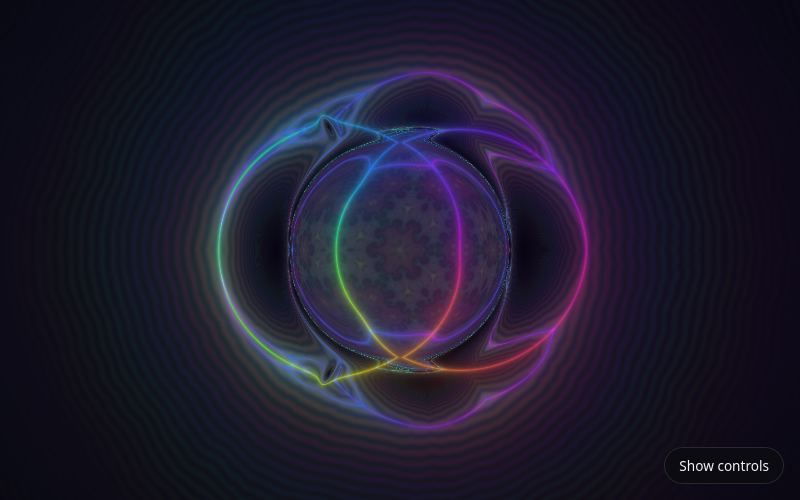
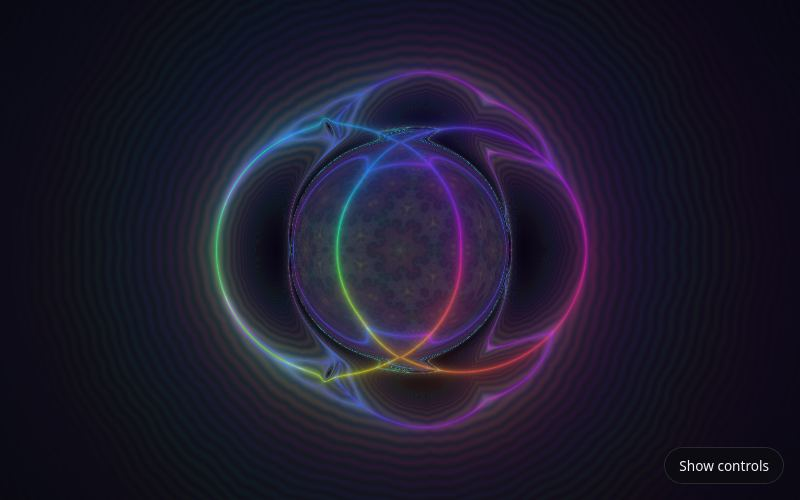
Add Kali Drift (quasi-periodic Kaliset); fix Prism Mirror going black
Prism Mirror read past the end of FOLDS on the deltoid→Hopf slide, so the
last ~6 s of every loop rendered NaN (black). Kali Drift drifts c, α, turn
and zoom on clocks in irrational ratio so it never repeats. Dev builds also
expose window.__manager for headless checks.

diff --git a/src/sketches/kaliDrift.js b/src/sketches/kaliDrift.js
@@ -1,0 +1,155 @@
+import { TAU } from '../lib/motion.js';
+
+// Kali's set, drifting and never repeating.
+//
+// Kali's fractal (the "Kaliset") repeats one step:
+//
+//     p ↦ |p| / |p|^α − c
+//
+// The |p| is the axis mirror (as in Radian628), and p/|p|² is an inversion in
+// the unit circle: everything inside the circle is thrown outside and back. With
+// α = 2 it is the classic set; α between 1.5 and 2.8 changes how hard the
+// inversion pulls, from soft lace to sharp crystal.
+//
+// No loop: c, α, the turn θ and the zoom all move on sines whose frequencies are
+// in irrational ratio (1, φ, √2, √3, ...), so the parameter point never comes
+// back to where it was. It wanders a box of (c, α) that was checked to stay
+// busy (no escaping to black, no collapsing to a single fixed point), and the
+// palette's hue drifts on its own irrational clock too.
+//
+// Colour comes from the whole orbit, not only near-misses: every pixel gets a
+// hue from the average of log|p| along its orbit (so there is no empty black),
+// and orbit traps (closest pass to the axes and to the unit circle) add the
+// bright filaments on top.
+
+const PHI = (1 + Math.sqrt(5)) / 2;
+const R2 = Math.SQRT2;
+const R3 = Math.sqrt(3);
+const W = TAU / 47; // base angular frequency: the slowest drift takes ~47 s
+
+export default {
+  name: 'Kali Drift',
+  description:
+    "Kali's fractal p ↦ |p|/|p|^α − c: a mirror and an inversion in the unit circle, repeated. c, α, the turn and " +
+    'the zoom drift on clocks in irrational ratio, so the picture never repeats.',
+  tags: ['fractal', '2d', 'glsl', 'kaliset', 'inversion', 'quasi-periodic', 'orbit trap'],
+  category: 'Fractals',
+  mode: 'shader',
+  shaderLang: 'glsl',
+
+  motion(t) {
+    const s = (k, ph = 0) => Math.sin(W * k * t + ph);
+    return {
+      cx: 0.8 + 0.28 * s(1) + 0.1 * s(R3, 2.1),
+      cy: 0.62 + 0.18 * s(PHI, 1.3) + 0.08 * s(R2 * PHI, 0.4),
+      alpha: 2.15 + 0.5 * s(R2, 0.7) + 0.15 * s(PHI * R3, 2.9),
+      theta: 0.6 * s(1 / PHI, 2.6) + 0.25 * s(R3 / PHI, 1.1),
+      zoom: Math.exp(0.35 + 0.6 * s(1 / R3, 4.0) + 0.15 * s(R2 * R3, 0.9)),
+      hue: (t * W * 0.6 / TAU) % 1,
+    };
+  },
+
+  latex: (params, hl, m) =>
+    '\\begin{aligned}' +
+    `p &\\mapsto \\frac{|p|}{|p|^{\\alpha}} - c,\\quad \\alpha = ${hl(m.alpha, 2)},\\quad c = (${hl(m.cx, 2)},\\ ${hl(m.cy, 2)}) \\\\` +
+    `c(t) &= c_0 + \\textstyle\\sum_k a_k \\sin(\\omega_k t + \\phi_k),\\quad \\omega_k \\propto 1,\\ \\varphi,\\ \\sqrt2,\\ \\sqrt3 \\\\` +
+    `p_0 &= ${hl(m.zoom, 2)}\\,R_{${hl(m.theta, 2)}}\\,z \\\\` +
+    '\\text{hue} &= \\tfrac1n\\textstyle\\sum \\log|p_i|,\\quad \\text{glow} = \\min_i \\min(|x_i|, |y_i|, \\big||p_i|-1\\big|)' +
+    '\\end{aligned}',
+
+  params: {
+    speed: { value: 1, min: 0, max: 3, step: 0.05 },
+    iterations: { value: 12, min: 4, max: 32, step: 1 },
+    glow: { value: 1, min: 0, max: 2.5, step: 0.05 },
+    saturation: { value: 1, min: 0, max: 1.5, step: 0.05 },
+  },
+
+  fragmentShader: `
+    uniform float uTime;
+    uniform vec2 uResolution;
+    uniform vec2 uC;
+    uniform float uAlpha;
+    uniform float uTheta;
+    uniform float uZoom;
+    uniform float uHue;
+    uniform float uIterations;
+    uniform float uGlow;
+    uniform float uSat;
+    varying vec2 vUv;
+
+    vec3 rainbow(float t) {
+      return 0.5 + 0.5 * cos(6.2831 * (t + vec3(0.0, 0.333, 0.667)));
+    }
+
+    // One sample: the orbit of z, coloured by the depth of its closest pass.
+    vec3 shade(vec2 z) {
+      float c = cos(uTheta), s = sin(uTheta);
+      vec2 p = uZoom * (mat2(c, -s, s, c) * z);
+      float best = 1e9, bestI = 0.0, r1 = 0.0;
+      for (int i = 0; i < 32; i++) {
+        if (float(i) >= uIterations) break;
+        float r2 = max(dot(p, p), 1e-6);
+        p = abs(p) / pow(r2, 0.5 * uAlpha) - uC;
+        float r = length(p);
+        if (i == 0) r1 = r;
+        // Closest pass to the mirror axes or the inversion circle. Deep passes
+        // count for less, so the picture is drawn by the first few levels and
+        // the chaos underneath stays a fine texture instead of grain.
+        float d = min(min(abs(p.x), abs(p.y)), abs(r - 1.0)) * (1.0 + 0.8 * float(i));
+        if (d < best) { best = d; bestI = float(i); }
+      }
+      float g = 0.035 / (best + 0.035);
+      // Each level gets its own hue; the backdrop is a smooth wash from the first step.
+      vec3 lines = rainbow(uHue + 0.14 * bestI + 0.05 * r1) * g * g * 1.6;
+      vec3 back = rainbow(uHue + 0.5 + 0.12 * log(r1 + 0.05)) * 0.14;
+      return back + uGlow * lines;
+    }
+
+    void main() {
+      vec2 frag = vUv * uResolution;
+      float px = 1.0 / (0.5 * min(uResolution.x, uResolution.y));
+      vec3 col = vec3(0.0);
+      for (int j = 0; j < 4; j++) {            // 2×2 supersampling
+        vec2 o = (vec2(float(j / 2), float(j - 2 * (j / 2))) - 0.25) * 0.5 ;
+        col += shade((frag + o - 0.5 * uResolution) * px);
+      }
+      col *= 0.25;
+
+      // Saturation, then compress by the brightest channel so hues survive.
+      float lum = dot(col, vec3(0.299, 0.587, 0.114));
+      col = max(mix(vec3(lum), col, uSat), 0.0);
+      float m = max(max(col.r, col.g), col.b);
+      col *= (1.0 - exp(-1.4 * m)) / max(m, 1e-4);
+
+      vec2 v = vUv - 0.5;
+      col *= 1.0 - 0.45 * dot(v, v);
+      gl_FragColor = vec4(pow(col, vec3(0.9)), 1.0);
+    }
+  `,
+
+  uniforms() {
+    return {
+      uC: { value: [0.78, 0.52] },
+      uAlpha: { value: 2 },
+      uTheta: { value: 0 },
+      uZoom: { value: 2 },
+      uHue: { value: 0 },
+      uIterations: { value: 12 },
+      uGlow: { value: 1 },
+      uSat: { value: 1 },
+    };
+  },
+
+  update(ctx, state) {
+    const m = ctx.motion;
+    const u = state.uniforms;
+    u.uC.value = [m.cx, m.cy];
+    u.uAlpha.value = m.alpha;
+    u.uTheta.value = m.theta;
+    u.uZoom.value = m.zoom;
+    u.uHue.value = m.hue;
+    u.uIterations.value = ctx.params.iterations;
+    u.uGlow.value = ctx.params.glow;
+    u.uSat.value = ctx.params.saturation;
+  },
+};

diff --git a/src/sketches/radian628PrismMirror.js b/src/sketches/radian628PrismMirror.js
@@ -32,7 +32,7 @@ const SHAPES = [
   { name: 'cardioid', tex: '(x^2+y^2-ax)^2 - a^2(x^2+y^2)' },
   { name: 'deltoid', tex: '(x^2+y^2)^2 + 18a^2(x^2+y^2) - 27a^4 - 8a(x^3-3xy^2)' },
 ];
-const FOLDS = [3, 4, 5, 6, 3]; // mirrors in the kaleidoscope while each shape holds
+const FOLDS = [3, 4, 5, 6, 3]; // mirrors in the kaleidoscope while each shape holds (wraps to the first)
 
 export default {
   name: 'Radian628 — Prism Mirror',
@@ -53,7 +53,7 @@ export default {
     const s = smooth((local - 0.6) / 0.35); // hold 60 %, slide, settle
     // The kaleidoscope changes its mirror count along with the shape. A
     // fractional N would leave a seam, so the two whole folds are blended.
-    const na = FOLDS[a], nb = FOLDS[a + 1];
+    const na = FOLDS[a], nb = FOLDS[(a + 1) % FOLDS.length];
     const tl = p * PERIOD;
     const mu = Math.min(smooth(tl / 4), smooth((PERIOD - tl) / 2));
     return { a, b: (a + 1) % SHAPES.length, s, mu, na, nb, hue: p, theta: 0.3 * Math.sin(2 * Math.PI * p * 2) + 0.1 };

diff --git a/src/main.js b/src/main.js
@@ -96,7 +96,7 @@ const timeline = {
   },
 };
 const recorder = createRecorder({ renderer, manager, size, timeline, getName: () => manager.getCurrent().id });
-if (import.meta.env.DEV) window.__recorder = recorder; // for tools/ tests
+if (import.meta.env.DEV) Object.assign(window, { __recorder: recorder, __manager: manager }); // for tools/ tests
 
 // --- Equation ---
 // Re-resolved against live values every frame, but KaTeX only re-renders when

diff --git a/docs/guide.md b/docs/guide.md
@@ -1413,7 +1413,38 @@ see the first ring of kaleidoscope echoes clearly.
 
 ---
 
-## 36. My notes
+## 36. Kali Drift, annotated
+
+File: `src/sketches/kaliDrift.js`
+
+Kali's fractal (the "Kaliset") repeats one step:
+
+  p ↦ |p| / |p|^α − c
+
+The |p| is the axis mirror again. Dividing by |p|² is an **inversion in the unit circle**: a point at
+distance r goes to distance 1/r, so the inside of the circle is turned outside and back. Mirror,
+invert, shift by c, repeat. α = 2 is the classic set. Smaller α inverts more gently (soft lace), and
+larger α inverts harder (bold cells and jewels).
+
+**Never the same twice.** The other sketches loop. Here c, α, the turn θ and the zoom each move on a
+sum of sines whose frequencies are in irrational ratio (1, φ, √2, √3, φ√3, ...). Two frequencies with an
+irrational ratio never line up again, so the point (c, α, θ, zoom) never returns to where it was: the
+motion is **quasi-periodic**. The slowest clock takes about 47 s, so the picture keeps changing
+character without ever jumping.
+
+**Colour from the closest pass.** For each pixel, the shader follows the orbit and records its
+closest pass to the mirror axes or the inversion circle, and *at which step* it happened. The step
+picks the hue (one colour per level of the fractal), and closeness picks the brightness. Deeper passes
+are counted as further away (×(1 + 0.8i)), so the first few levels draw the picture and the chaos
+underneath is fine texture rather than noise. A smooth wash from the first step's radius fills the
+background, so nothing goes black. Four samples per pixel (2×2) keep the fine lines from flickering.
+
+Try: iterations 5 for just the big shapes, 20 for all the lace; saturation 0 to see the structure
+alone.
+
+---
+
+## 37. My notes
 
 Add your own findings, questions and discoveries here.
 
